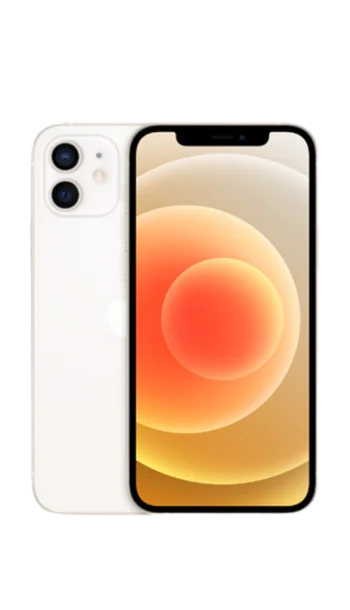
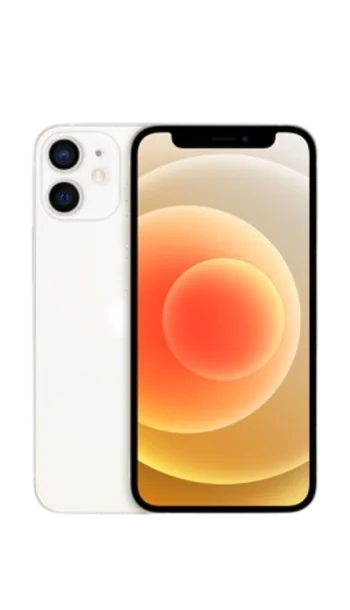
v1.1: iPhone 12 mini cerrado con su (PRODUCT)RED y Blanco
Claude-Session: https://claude.ai/code/session_01T8bAe4Z7w5hoWuiY5mK5Vw

diff --git a/assets/js/datos/predeterminadas.js b/assets/js/datos/predeterminadas.js
@@ -22,8 +22,8 @@ export const IMAGENES_PREDETERMINADAS = {
   "iphone-11": { "Morado": "morado", "(PRODUCT)RED": "product-red", "Blanco": "blanco", "Negro": "negro", "Verde": "verde", "Amarillo": "amarillo" },
   "iphone-11-pro": { "Verde noche": "verde-noche", "Plata": "plata", "Gris espacial": "gris-espacial", "Oro": "oro" },
   "iphone-11-pro-max": { "Verde noche": "verde-noche", "Plata": "plata", "Gris espacial": "gris-espacial", "Oro": "oro" },
-  // 12 y 12 mini: se ven iguales (cambia el tamaño). Jared pasó dos juegos: el
-  // primero quedó en el 12 y el segundo en el 12 mini ((PRODUCT)RED, todavía la del 12).
+  // 12 y 12 mini: se ven iguales (cambia el tamaño). Jared pasó un juego para
+  // cada uno: el primero quedó en el 12 y el segundo en el 12 mini.
   "iphone-12": { "Blanco": "blanco", "Negro": "negro", "Morado": "morado", "(PRODUCT)RED": "product-red", "Azul": "azul", "Verde": "verde" },
   "iphone-12-mini": { "Blanco": "blanco", "Negro": "negro", "Morado": "morado", "(PRODUCT)RED": "product-red", "Azul": "azul", "Verde": "verde" },
   "iphone-se-2": { "Negro": "negro", "(PRODUCT)RED": "product-red", "Blanco": "blanco" },

diff --git a/DOCUMENTACION.md b/DOCUMENTACION.md
@@ -1564,7 +1564,7 @@ CORREOS_IDIOMA=pt BIN=… bash tests/supabase-local/levantar.sh   # con los corr
 - [ ] **Fuentes legales que no se pudieron abrir** desde el entorno: se verificaron con el buscador y, desde el 22/10/2026, con los informes de Gemini Deep Research que pasó Jared (citas revisadas por coherencia, no contra el original). Ver `legal/FUENTES.md`. Queda para el abogado: la Ley 2300 (franjas, con fuentes secundarias) y si el radicado de PQR con respuesta por WhatsApp o correo cumple con el "seguimiento" (fuente 17).
 - [ ] **Cookies del script de seguimiento externo de GHL:** no se verificaron; si se activa, agregarlo a la Política de cookies.
 - [ ] Probar en GHL los campos de consentimiento y la guía de la sección 12.3.
-- [ ] **Imágenes predeterminadas (v1.1):** Jared las pasa de a 5. Van 63 de 182 combinaciones de modelo y color. Completos: iPhone 7, 7 Plus, 8, 8 Plus, X, XS, XS Max, XR, 11, 11 Pro, 11 Pro Max, SE (2.ª generación), 12 y 12 mini. XS y XS Max: Gris espacial (cada uno con su imagen), Oro y Plata (la misma en los dos). Plata lleva la marca de agua de otra empresa: Jared decidió dejarla así. 12 y 12 mini: cada uno con su juego de imágenes (Jared pasó dos), salvo (PRODUCT)RED del 12 mini, que todavía usa la del 12. La lista exacta está en `IMAGENES_PREDETERMINADAS` (`assets/js/datos/predeterminadas.js`). El proceso para cada tanda está en la sección 5 de `AI_HANDOFF.md`.
+- [ ] **Imágenes predeterminadas (v1.1):** Jared las pasa de a 5. Van 63 de 182 combinaciones de modelo y color. Completos: iPhone 7, 7 Plus, 8, 8 Plus, X, XS, XS Max, XR, 11, 11 Pro, 11 Pro Max, SE (2.ª generación), 12 y 12 mini. XS y XS Max: Gris espacial (cada uno con su imagen), Oro y Plata (la misma en los dos). Plata lleva la marca de agua de otra empresa: Jared decidió dejarla así. 12 y 12 mini: cada uno con su juego de imágenes (Jared pasó uno para cada uno). La lista exacta está en `IMAGENES_PREDETERMINADAS` (`assets/js/datos/predeterminadas.js`). El proceso para cada tanda está en la sección 5 de `AI_HANDOFF.md`.
 - [ ] Que el abogado confirme si publicar capturas de clientes (aun tapadas) necesita autorización por escrito, y si alcanza con lo que guarda el panel desde `0034` (canal, fecha y alcance de la autorización, sin datos de la persona; el mensaje o el documento lo guarda la tienda por fuera).
 - [ ] **Reseñas de antes de `0034`:** quedan "sin registrar" hasta que la tienda complete la autorización en su fila. Se siguen mostrando en el sitio mientras tanto.
 - [x] ~~Confirmar los nombres del catálogo~~: confirmados con las fichas de soporte de Apple en español (informes de Gemini, 22/10/2026). Apple anunció el 17e, 18 Pro, 18 Pro Max y Duo.
@@ -1632,6 +1632,12 @@ Otros LLM o herramientas que no ejecuten hooks deben seguir la misma regla a man
 ## 19. Registro de cambios
 
 > La entrada más nueva va arriba. Formato: **fecha · título** — pedido → qué se hizo → archivos → verificación.
+
+### 23/10/2026 · v1.1: iPhone 12 mini cerrado (63 de 182)
+
+- **Pedido de Jared:** 2 imágenes "para cerrar las de iPhone 12 mini" (69 y 70).
+- **Hecho:** 69 es el (PRODUCT)RED del 12 mini (antes usaba la del 12) y 70 el Blanco (reemplaza la 67). El 12 mini queda con sus 6 imágenes propias. La cuenta no cambia: son reemplazos.
+- **Verificación:** `node tests/documentacion.mjs` OK, todos los archivos del mapa existen, y en `tests/verificar.cjs` pasan el caso "v1.1: imágenes" y el 11 (sin marca).
 
 ### 23/10/2026 · v1.1: imágenes propias del iPhone 12 mini (63 de 182)
 

diff --git a/AI_HANDOFF.md b/AI_HANDOFF.md
@@ -210,7 +210,7 @@ No hay tests fallando ni configuraciones a medias. El código actual funciona y 
       5. Correr el caso "v1.1: imágenes" y el 11 (sin marca) de `verificar.cjs`.
       6. Actualizar en `DOCUMENTACION.md` la cuenta de la sección 17 ("Van N de 182") y la entrada de la 19.
       7. Commit y push.
-    - **Cargadas hasta ahora (63 de 182; el 12 y el 12 mini están completos y cada uno tiene su juego de imágenes —el segundo juego, imágenes 64 a 68, quedó en el 12 mini—, salvo (PRODUCT)RED del 12 mini, que usa la del 12; ver el detalle en la sección 17 de `DOCUMENTACION.md`):** 12 y 12 mini con Blanco, Negro, Morado y (PRODUCT)RED, las mismas imágenes en los dos. La imagen 57 era del XS (lo confirmó Jared): reemplazó la del XS en Gris espacial; el XS Max conserva la anterior. Antes: completos el iPhone 7, 7 Plus, 8, 8 Plus, X, XR, 11, 11 Pro, 11 Pro Max y SE (2.ª generación); XS y XS Max completos: Gris espacial (cada uno el suyo), Oro y Plata (la misma en los dos). Plata lleva la marca de agua "Swappie": Jared decidió dejarla (23/10/2026). **Fuera de esa decisión, no cargar imágenes con marcas de agua de terceros sin preguntarle.** Criterio: si dos modelos se ven iguales y solo cambia el tamaño (Pro y Pro Max, por ejemplo), la misma imagen va en los dos y se le avisa a Jared.
+    - **Cargadas hasta ahora (63 de 182; el 12 y el 12 mini están completos y cada uno tiene su juego de imágenes (el del 12 mini: imágenes 64 a 66, 68, 69 y 70); ver el detalle en la sección 17 de `DOCUMENTACION.md`):** 12 y 12 mini con Blanco, Negro, Morado y (PRODUCT)RED, las mismas imágenes en los dos. La imagen 57 era del XS (lo confirmó Jared): reemplazó la del XS en Gris espacial; el XS Max conserva la anterior. Antes: completos el iPhone 7, 7 Plus, 8, 8 Plus, X, XR, 11, 11 Pro, 11 Pro Max y SE (2.ª generación); XS y XS Max completos: Gris espacial (cada uno el suyo), Oro y Plata (la misma en los dos). Plata lleva la marca de agua "Swappie": Jared decidió dejarla (23/10/2026). **Fuera de esa decisión, no cargar imágenes con marcas de agua de terceros sin preguntarle.** Criterio: si dos modelos se ven iguales y solo cambia el tamaño (Pro y Pro Max, por ejemplo), la misma imagen va en los dos y se le avisa a Jared.
     - **Mecanismo** (ya hecho; no cambia por tanda):
       - En `equipos.fotos` va la ruta `predeterminadas/<slug>/<archivo>.webp`.
       - `urlArchivo()` (demo y Supabase) la sirve desde el sitio y `borrarArchivos()` no la borra.
